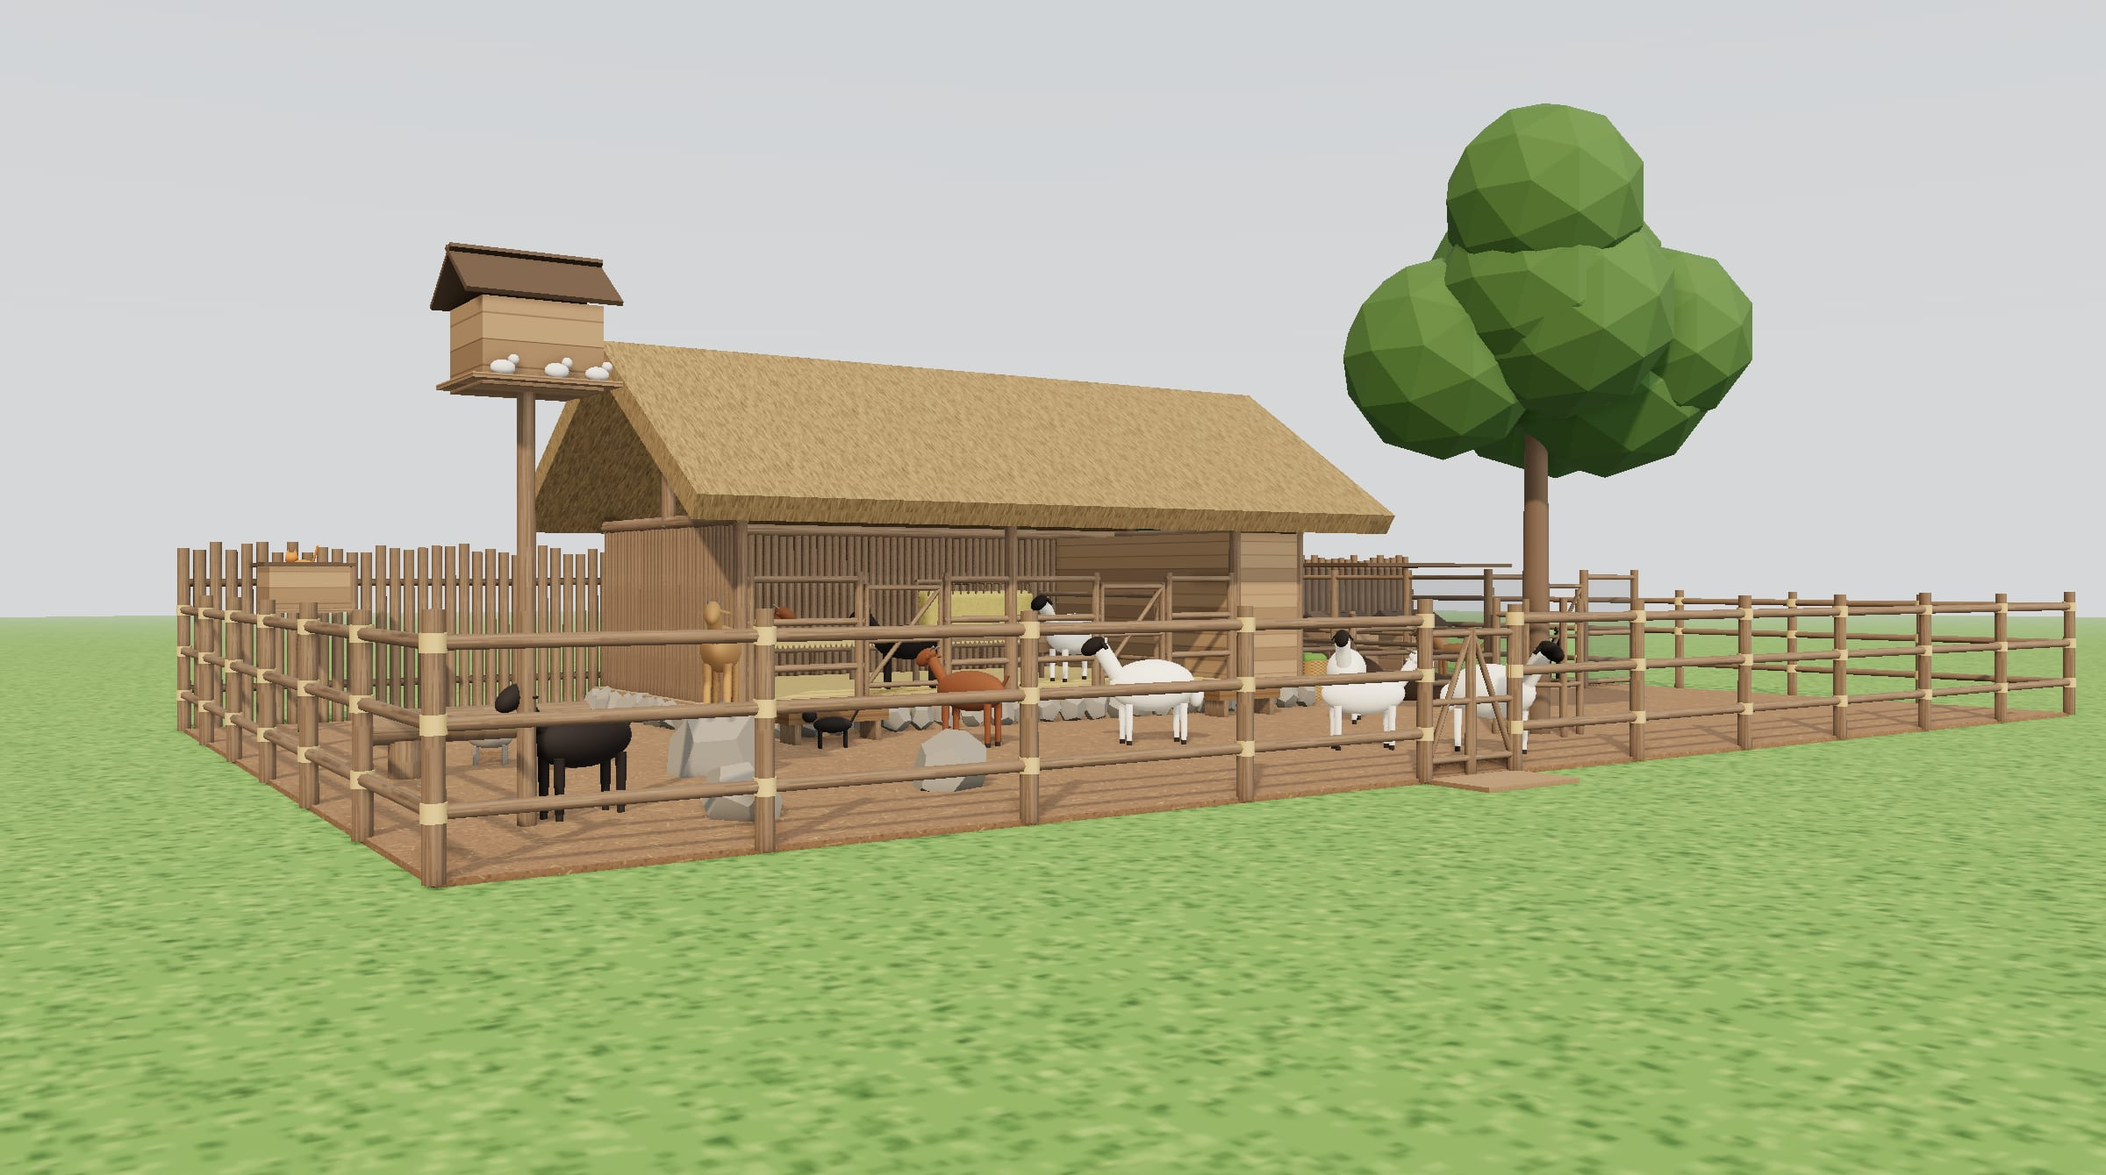
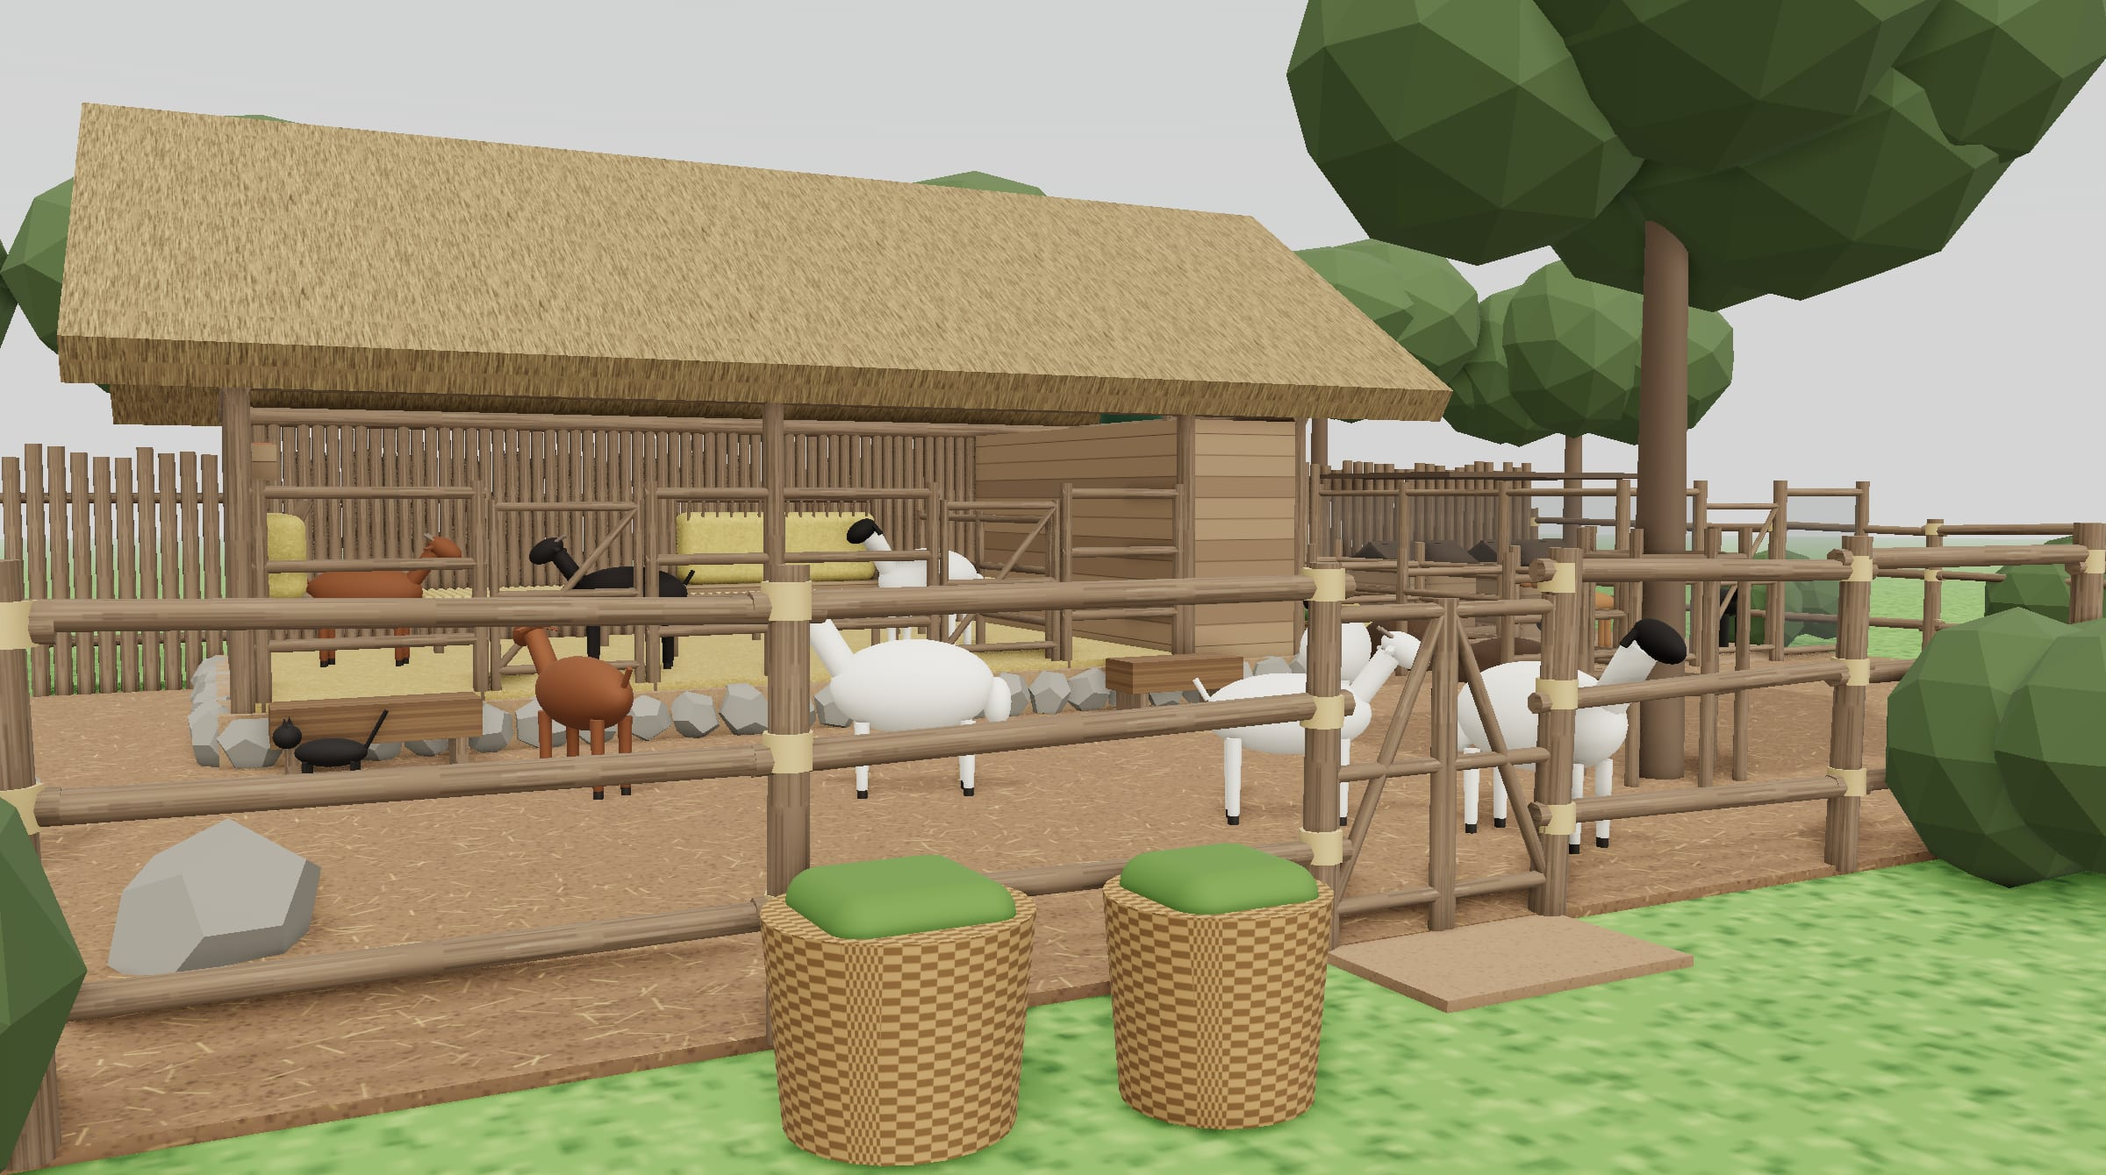
feat(livestock): the reference photo's feel, crooked lashed rails, planting, overcast; D-041
The founder asked for the livestock to carry the reference photo's sense. Posts
lean and stand at their own heights, rails span one bay each and overlap at the
post, shrubs ring the outline with trees behind the palisade, the light goes
soft and overcast, and the stand-in hero looks low across the front fence corner
with fodder baskets in front, as the photo does.

Claude-Session: https://claude.ai/code/session_01S6J7HfcfzMCDbDDKUuUjeQ

diff --git a/scripts/site/render/livestock.html b/scripts/site/render/livestock.html
@@ -7,12 +7,14 @@
   open hall with straw litter, one slatted bamboo sleeping platform, two hay racks and the movable kidding hurdles,
   the boarded feed store; the village yard the herd, the farm friends and the guests share, with troughs, climbing
   stones, the guarded shade tree, the dovecote, the cats' house and a bench; the tank, the fodder baskets, the
-  compost bays and the guard dogs' run in the back east corner. 6 goats, 4 sheep, 2 dogs, 3 cats and doves. The
-  tree's crown is cut like the roof: from this height it would hide the hall and the store. Rendered three ways:
+  compost bays and the guard dogs' run in the back east corner; shrubs round the outside. 6 goats, 4 sheep, 2 dogs,
+  3 cats and doves. In the feel of the founder's reference photo (D-041): hand-cut poles that lean a little, rails
+  lashed bay by bay, soft overcast light. The crowns of the trees are cut like the roof: from this height they would
+  hide the hall and the store; the trees behind the palisade show only at eye level. Rendered three ways:
 
     ?mode=line  line drawing on a transparent ground   -> public/designs/livestock/render/livestock-line.png
     ?mode=real  materials, daylight and soft shadow    -> public/designs/livestock/render/livestock-real.webp
-    &hero=1     real mode, thatch and crown on, from eye level in the paddock, 2400 x 1340
+    &hero=1     real mode, thatch and crowns on, low and close across the front fence corner, 2400 x 1340
                 -> public/designs/livestock/render/livestock-hero.jpg, the stand-in hero and the Nano Banana layout reference
 
   node scripts/site/render.mjs scripts/site/render/livestock.html "mode=line" public/designs/livestock/render/livestock-line.png
@@ -117,7 +119,7 @@ const T = LINE ? {} : {
   thatch: tex((g, w, h) => { g.fillStyle = "#8d7550"; g.fillRect(0, 0, w, h); for (let i = 0; i < 4200; i++) { const x = rnd() * w, y = rnd() * h; g.strokeStyle = rnd() > 0.5 ? `rgba(190,165,115,${0.3 + rnd() * 0.3})` : `rgba(70,55,35,${0.3 + rnd() * 0.3})`; g.lineWidth = 1 + rnd(); g.beginPath(); g.moveTo(x, y); g.lineTo(x + (rnd() - 0.5) * 4, y + 20 + rnd() * 30); g.stroke() } }),
   grass: tex((g, w, h) => { g.fillStyle = "#6f9a4a"; g.fillRect(0, 0, w, h); for (let i = 0; i < 26000; i++) { g.fillStyle = rnd() > 0.5 ? "rgba(170,200,110,0.35)" : "rgba(40,70,30,0.35)"; g.fillRect(rnd() * w, rnd() * h, 1 + rnd() * 2, 1 + rnd() * 2) } }),
   weave: tex((g, w, h) => { g.fillStyle = "#a07a48"; g.fillRect(0, 0, w, h); for (let y = 0; y < h; y += 8) for (let x = 0; x < w; x += 16) { g.fillStyle = (x / 16 + y / 8) % 2 ? "rgba(60,40,20,0.35)" : "rgba(220,190,140,0.25)"; g.fillRect(x, y, 16, 7) } }, 128, 128),
-  sky: tex((g, w, h) => { const gr = g.createLinearGradient(0, 0, 0, h); gr.addColorStop(0, "#9bb5c8"); gr.addColorStop(0.45, "#d9dde0"); gr.addColorStop(1, "#d9dde0"); g.fillStyle = gr; g.fillRect(0, 0, w, h) }, 16, 512),
+  sky: tex((g, w, h) => { const gr = g.createLinearGradient(0, 0, 0, h); gr.addColorStop(0, "#aeb6b8"); gr.addColorStop(0.45, "#d6d9d7"); gr.addColorStop(1, "#d6d9d7"); g.fillStyle = gr; g.fillRect(0, 0, w, h) }, 16, 512),
 }
 // metres one tile covers [along, across]
 const TILE = { earth: [2.5, 2.5], straw: [1, 1], packed: [2, 2], bark: [0.4, 2], boards: [1.5, 1.5], hay: [0.6, 0.6], compost: [1, 1], thatch: [1.2, 1.2], grass: [9, 9], weave: [0.3, 0.3] }
@@ -165,7 +167,7 @@ function mat(name) {
       basket: () => std({ map: T.weave, roughness: 0.95 }),
       fodder: () => std({ color: "#5d7d3a", roughness: 0.9 }),
       trunk: () => std({ color: "#6d5a48", roughness: 0.9 }),
-      leaf: () => std({ color: "#4f6f36", roughness: 0.9, flatShading: true }),
+      leaf: () => std({ color: "#55663f", roughness: 0.95, flatShading: true }),
       thatch: () => std({ map: T.thatch, roughness: 1, side: THREE.DoubleSide }),
       lawn: () => std({ map: T.grass, roughness: 1 }),
       face: () => std({ color: "#211c19", roughness: 0.85 }),
@@ -226,7 +228,7 @@ const pole = (x, z, r, y0, y1, seg = 7) => cyl(x, z, r, y0, y1 - y0, "pole", seg
 
 // ------------------------------------------------------------ the plan
 const { shelter: S, pens: P, platform: PF, fittings: FT, yards: Y, palisade: PA, stones: ST, tree: TR, tank: TK,
-  baskets: BK, compost: CO, dogs: DG, friends: FR, animals: AN } = C
+  baskets: BK, compost: CO, dogs: DG, friends: FR, planting: PL, animals: AN } = C
 const L = S.l / 2, W = S.d / 2, WALL = S.wall
 const FL = S.plinth.h // the plinth's top, the pens' floor
 const LIT = FL + 0.05 // the top of the straw litter
@@ -339,14 +341,25 @@ function gate(x0, z0, x1, z1, y0, h) { // shut: a frame of thin poles with a dia
 }
 
 // ------------------------------------------------------------ the outline and the yard: posts and three lashed rails, the gate, troughs
-function fence(x0, z0, x1, z1, gaps = []) {
+// hand-cut: each post leans a little and stands at its own height; each rail spans one bay, crooked by a few
+// centimetres and overlapping the next at the post, as in the founder's reference photo
+function fence(x0, z0, x1, z1) {
   const len = Math.hypot(x1 - x0, z1 - z0), n = Math.max(1, Math.ceil(len / Y.post))
+  const ux = (x1 - x0) / len, uz = (z1 - z0) / len
+  const at = (k) => [x0 + ((x1 - x0) * k) / n, z0 + ((z1 - z0) * k) / n]
   for (let k = 0; k <= n; k++) {
-    const x = x0 + ((x1 - x0) * k) / n, z = z0 + ((z1 - z0) * k) / n
-    pole(x, z, 0.06, 0, Y.h + 0.12 + (rnd() - 0.5) * 0.06, 8)
-    if (!LINE) for (const h of RAILS) cyl(x, z, 0.068, h - 0.05, 0.1, "rope", 8) // the sisal lashing at each rail
+    const [x, z] = at(k)
+    const p = pole(x, z, 0.055 + rnd() * 0.02, 0, Y.h + 0.1 + (rnd() - 0.5) * 0.12, 8)
+    p.rotation.set((rnd() - 0.5) * 0.06, 0, (rnd() - 0.5) * 0.06)
+    if (!LINE) for (const h of RAILS) cyl(x, z, 0.07, h - 0.05, 0.1, "rope", 8) // the sisal lashing at each rail
   }
-  rails(x0, z0, x1, z1, 0, RAILS, 0.04)
+  for (let k = 0; k < n; k++) {
+    const [ax, az] = at(k), [bx, bz] = at(k + 1)
+    for (const h of RAILS) {
+      const r = 0.035 + rnd() * 0.012, j = () => (rnd() - 0.5) * 0.07
+      pipe([ax - ux * 0.1, h + j(), az - uz * 0.1], [bx + ux * 0.1, h + j(), bz + uz * 0.1], r, "pole", 7)
+    }
+  }
 }
 { // the outline: the palisade is its back; the post-and-rail round the west, the front with its gate, the east
   const G = Y.gate
@@ -551,14 +564,26 @@ for (const [dx, dz] of [[-0.25, 0.4], [0.05, 0.42], [0.3, 0.38]]) {
   ellipsoid(V.x + dx + 0.06, FRT.dove + 0.14, V.y + dz, 0.03, 0.03, 0.03, "dove")
 }
 
+// ------------------------------------------------------------ the planting round the outline: shrubs, and trees behind the palisade
+seed = 41
+function bush(x, z, r, y0, name = "leaf") {
+  for (let k = 0; k < 4; k++) {
+    const m = add(new THREE.IcosahedronGeometry(1, 1), name, { pos: [x + (rnd() - 0.5) * r, y0 + r * (0.55 + rnd() * 0.3), z + (rnd() - 0.5) * r], noFrame: true })
+    m.scale.set(r * (0.6 + rnd() * 0.3), r * (0.55 + rnd() * 0.25), r * (0.6 + rnd() * 0.3))
+  }
+}
+for (const b of PL.shrubs) bush(b.x, b.y, b.r, 0)
+if (HERO) for (const t of PL.trees) { cyl(t.x, t.y, 0.12, 0, 2.6, "trunk", 10, 0.09); bush(t.x, t.y, t.r, 2.2) } // at eye level only, as the crown
+
 // ------------------------------------------------------------ camera
 const camera = new THREE.PerspectiveCamera(HERO ? 40 : 20, FW / FH, 0.3, 300)
 if (HERO) {
   // eye level in the paddock, front-left, the shelter and yards right of centre, open ground bottom-left for the words
-  camera.position.set(-9.5, 1.5, 15.5)
-  camera.lookAt(new THREE.Vector3(-0.5, 1.4, 2.5))
+  // low and close across the front fence, the fodder baskets in front, as the reference photo's corner
+  camera.position.set(-3.6, 1.45, 11.4)
+  camera.lookAt(new THREE.Vector3(1.0, 0.9, 2.6))
   add(new THREE.SphereGeometry(150, 32, 16), "sky", { noEdges: true, keepUV: true })
-  scene.fog = new THREE.Fog(0xdfe2e2, 30, 140)
+  scene.fog = new THREE.Fog(0xcfd5d2, 18, 90)
 } else {
   // straight on from the paddock, as the studio's front view, but from far off with a long lens and looking down,
   // so the pens show over the fences and the yards keep their proportions; the view offset frames the model
@@ -601,15 +626,15 @@ if (LINE) {
   const pmrem = new THREE.PMREMGenerator(renderer)
   scene.environment = pmrem.fromScene(new RoomEnvironment(), 0.04).texture
   scene.environmentIntensity = 0.45
-  scene.add(new THREE.HemisphereLight(0xeef3ff, 0x8a7a5a, HERO ? 0.7 : 1.0))
-  // soft daylight from the front left, as the studio's; at eye level a lower, warmer sun
-  const sun = new THREE.DirectionalLight(HERO ? 0xffe2bd : 0xfff3e0, HERO ? 2.6 : 2.4)
-  sun.position.set(-8, HERO ? 7 : 12, 10)
+  scene.add(new THREE.HemisphereLight(0xe6ecef, 0x7a6e58, 1.6))
+  // soft overcast daylight, as the reference photo: a high sky, a weak sun through cloud, soft shadows
+  const sun = new THREE.DirectionalLight(0xf2f1ea, 1.3)
+  sun.position.set(-6, 14, 8)
   sun.target.position.set(-0.5, 0, 2.5)
   sun.castShadow = true
   sun.shadow.mapSize.set(4096, 4096)
   Object.assign(sun.shadow.camera, { left: -10, right: 10, top: 10, bottom: -10, near: 1, far: 60 })
-  sun.shadow.bias = -0.0003; sun.shadow.normalBias = 0.02; sun.shadow.radius = 4
+  sun.shadow.bias = -0.0003; sun.shadow.normalBias = 0.02; sun.shadow.radius = 12
   scene.add(sun, sun.target)
   if (!HERO) { // the white page around the yard takes only the shadows
     const ground = new THREE.Mesh(new THREE.PlaneGeometry(60, 60), new THREE.ShadowMaterial({ opacity: 0.14 }))

diff --git a/src/app/en/livestock/page.tsx b/src/app/en/livestock/page.tsx
@@ -21,12 +21,12 @@ export default function LivestockPage() {
   return (
     <main className="w-full flex-1">
       {/* First screen: a STAND-IN until the founder's Nano Banana remaster (handoff in ~/Desktop/livestock-nano-banana:
-          the reference photo, this render, the 3D overview and a frame of the site footage). For now it is the design model from eye
-          level in the paddock (scripts/site/render/livestock.html?mode=real&hero=1, 2400 x 1340): the thatched shelter,
-          the palisade, the village yard with the dovecote and the shade tree, which is also the remaster's layout reference. */}
+          the reference photo, this render, the 3D overview and a frame of the site footage). For now it is the design
+          model from low and close across the front fence corner in overcast light, after the reference photo
+          (scripts/site/render/livestock.html?mode=real&hero=1, 2400 x 1340). The words keep the lower left. */}
       <PageHero src={`${D}/render/livestock-hero.jpg`} width={2400} height={1340} className="bg-[#d9d4c6]" imgClassName="object-[60%_60%]"
         title="Goats and sheep on open pasture"
-        alt="A thatched shelter of upright eucalyptus poles behind a pole palisade, a village yard in front fenced with lashed round-pole rails, goats and sheep together on the straw, climbing stones, a dovecote on a pole with doves, and a shade tree in a pole guard, on open grass." />
+        alt="Across a crooked post-and-rail fence of barked poles lashed with rope, two woven baskets of green fodder; behind it goats and black-headed sheep on straw and earth, fieldstones, and a thatched shelter of upright poles on a stone plinth, with leafy trees and shrubs round it under a soft grey sky." />
 
       {/* 2D, full screen: the house's plan (src/components/livestock/livestock-plan.tsx), in the text colour. */}
       <DrawingSection id="plans" title="2D">
@@ -37,7 +37,7 @@ export default function LivestockPage() {
       {/* 3D, in the 2D section's pattern: the yard seen straight on from the paddock with the roof off, as a line
           drawing, then rendered. Both from scripts/site/render/livestock.html. */}
       <ModelSection line={`${D}/render/livestock-line.png`} real={`${D}/render/livestock-real.webp`} width={2400} height={1400}
-        lineAlt="Line drawing of the livestock yard from the paddock with the roofs off: one outline, the palisade behind and a post-and-rail fence round the rest with a two-leaf gate; the shelter of upright poles on its fieldstone plinth with one long bamboo sleeping platform, two hay racks, the kidding hurdles and the front rail with two gates, the boarded feed store; goats and sheep mixing in the yard, one goat on a stone, troughs, a bench, the dovecote and the cats’ house on posts, three cats, the guarded tree; the tank, the baskets, the compost bays and the dogs’ run with two kennels in the back corner."
+        lineAlt="Line drawing of the livestock yard from the paddock with the roofs off: one outline, the palisade behind and a post-and-rail fence round the rest with a two-leaf gate; the shelter of upright poles on its fieldstone plinth with one long bamboo sleeping platform, two hay racks, the kidding hurdles and the front rail with two gates, the boarded feed store; goats and sheep mixing in the yard, one goat on a stone, troughs, a bench, the dovecote and the cats’ house on posts, three cats, the guarded tree, shrubs round the outside; the tank, the baskets, the compost bays and the dogs’ run with two kennels in the back corner."
         realAlt="The same view rendered: grey-brown eucalyptus poles lashed with pale sisal, golden straw litter in the hall, red-brown earth and straw in the yard, brown, black, tan and white goats and white sheep with black faces, a ginger cat on its house and a grey and a black cat in the yard, doves on the dovecote, a green tank, woven baskets of green fodder, the compost bays and a tan and a black dog in their run." />
     </main>
   )

diff --git a/src/components/livestock/livestock-plan.tsx b/src/components/livestock/livestock-plan.tsx
@@ -6,7 +6,7 @@ import livestock from "./livestock.json"
 // open hall faces down the page onto the village yard, toward the paddock and the viewer of the 3D. Units are
 // metres, the shelter's centre at 0,0, y toward the yard. All in currentColor, so the page sets its colour.
 
-const { shelter, pens, platform, fittings, yards, palisade, stones, tree, tank, baskets, compost, dogs, friends } = livestock
+const { shelter, pens, platform, fittings, yards, palisade, stones, tree, tank, baskets, compost, dogs, friends, planting } = livestock
 const WALL = 0.1 // the pole back wall and the ends, and the feed store's boarded walls
 const FENCE = 0.04 // the rail and gates across the hall's open front
 const line = { fill: "none", stroke: "currentColor", strokeWidth: 0.9, vectorEffect: "non-scaling-stroke" } as const
@@ -77,8 +77,10 @@ export function LivestockPlan({ title, className }: { title: string; className?:
   const door = 0.7
   const { dovecote, cats, bench } = friends
   const yg = yards.gate, dg = dogs.gate
-  const x0 = yards.x0 - 0.3, x1 = yards.x1 + 0.75
-  const top = palisade.y - 0.6, bottom = Y + 1.1
+  const edge = { x0: Math.min(...planting.shrubs.map((b) => b.x - b.r)), x1: Math.max(...planting.shrubs.map((b) => b.x + b.r)),
+    y1: Math.max(...planting.shrubs.map((b) => b.y + b.r)) } // the planting round the outline
+  const x0 = edge.x0 - 0.3, x1 = edge.x1 + 0.75
+  const dimY = edge.y1 + 0.35, top = palisade.y - 0.6, bottom = dimY + 0.6
   const row = palisade.y - 0.25 // the names, in one row above the palisade
   const px0 = hall.x0 + WALL + 0.03, px1 = hall.x1 - WALL / 2 - 0.03 // the sleeping platform
   const py0 = -W + WALL, py1 = -W + WALL + platform.d
@@ -173,6 +175,9 @@ export function LivestockPlan({ title, className }: { title: string; className?:
       ))}
       <circle cx={dogs.bowl.x} cy={dogs.bowl.y} r={dogs.bowl.r} {...line} />
 
+      {/* The planting round the outside of the outline: shrubs, drawn as soft crowns (trees stand behind the palisade) */}
+      {planting.shrubs.map((b) => <circle key={`${b.x}-${b.y}`} cx={b.x} cy={b.y} r={b.r} {...dashed} />)}
+
       {/* What is where, in one row above, as the studio's BED, SEATING, GALLEY, BATH; the rest in place */}
       {([
         [cats.house.x, "CATS"], [(hall.x0 + kidding.x0) / 2, hall.label], [(store.x0 + store.x1) / 2, store.label], [tank.x, "TANK"],
@@ -184,8 +189,8 @@ export function LivestockPlan({ title, className }: { title: string; className?:
       <text x={f((bench.x0 + bench.x1) / 2)} y={f(bench.y + 0.4)} textAnchor="middle" style={small}>BENCH</text>
       <text x={f(yg.x0 + yg.w / 2)} y={f(bottom - 0.12)} textAnchor="middle" style={small}>TO THE PADDOCK · GUESTS</text>
 
-      <Dimension x0={yards.x0} x1={yards.x1} y={f(Y + 0.5)} />
-      <DimensionUp y0={yards.y0} y1={Y} x={f(yards.x1 + 0.4)} />
+      <Dimension x0={yards.x0} x1={yards.x1} y={f(dimY)} />
+      <DimensionUp y0={yards.y0} y1={Y} x={f(edge.x1 + 0.4)} />
     </svg>
   )
 }

diff --git a/src/lib/design-blur.generated.ts b/src/lib/design-blur.generated.ts
@@ -10,8 +10,8 @@ export const DESIGN_BLUR: Record<string, string> = {
[10 lines of base64/hex data omitted]

diff --git a/study/execution/decision-log.md b/study/execution/decision-log.md
@@ -150,3 +150,6 @@ Context: the founder asked for "one outline all together" instead of many partit
 
 **D-040 · 2026-10-29 · The farm friends are 3 cats and the doves; no ducks or rabbits. 2 guard dogs.**
 Context: the founder said to drop the rabbits and the ducks and keep three cats, the birds and two dogs. Decision: `src/components/livestock/livestock.json` loses the duck house, the pond and the rabbits' hutch; the cats go from 2 to 3, with their house moved by the palisade; the doves keep their dovecote; the 2 guard dogs keep their run. With the west wing empty, the outline's west side comes in from 9.0 to 7.5 m off the shelter's centre, so the outline is 17.2 x 9.6 m. Updates D-038; every number [A].
+
+**D-041 · 2026-10-29 · The livestock yard takes the reference photo's feel: hand-cut poles, rails lashed bay by bay, planting round it, overcast light.**
+Context: the founder asked for the livestock to have "the same sense" as the reference photo of D-037. The layout stays (D-039, D-040); its character changes. Decision: the 3D (`scripts/site/render/livestock.html`) gives every fence post its own small lean and height and every rail its own bay, a few centimetres crooked and overlapping at the post; `src/components/livestock/livestock.json` adds shrubs round the outside of the outline and trees behind the palisade (nothing inside, where the herd would strip it; fodder shrubs such as Calliandra where the goats cannot reach them, species [A]) and two baskets of cut fodder outside the gate. The renders move to soft overcast light. The stand-in hero is now low and close across the front fence corner with the baskets in front, as the photo's view, and the Nano Banana prompt (`~/Desktop/livestock-nano-banana/prompt.txt`) asks for the photo's overcast, muted, documentary feel instead of golden hour. This is the one hero in the site that departs from the golden-hour heroes, by the founder's reference.
